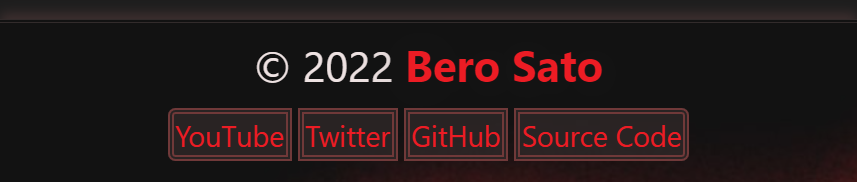
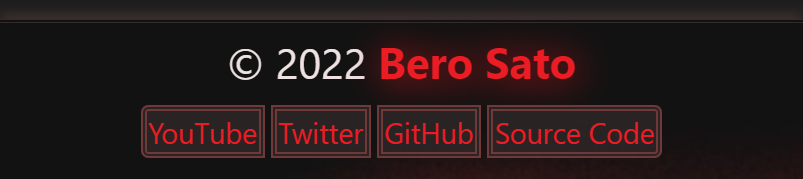
Version 2.5.7 small update
Added the text shadow to the "Bero Sato" text for the classic style too

Changed region(s): [[0.1557, 0.5866, 0.8406, 0.8939], [0.2802, 0.2235, 0.7472, 0.5307], [0.9963, 0.9497, 1.0, 1.0]]

diff --git a/blogs.html b/blogs.html
@@ -88,6 +88,8 @@
                 - <em>New!</em> Updated the footer buttons look
                 <br>
                 - <em>New!</em> Black/White color when hovering on blogs, latest videos and tweets and about this website
+                <br>
+                - <em>New!</em> Added a text shadow for the "Bero Sato" text in this footer
             </p>
             <h4>Known issue (<em>outdated</em>)</h4>
             <p>- The header buttons place is a bit up than it should be on the blogs and 404 pages</p>

diff --git a/style4.css b/style4.css
@@ -215,6 +215,7 @@ em {
 
 #name1 {
     color: #ec1c24;
+    text-shadow: 2px 2px #921418;
 }
 
 #logo1 {
